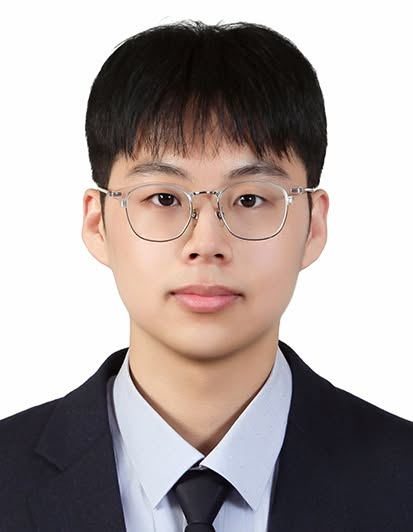
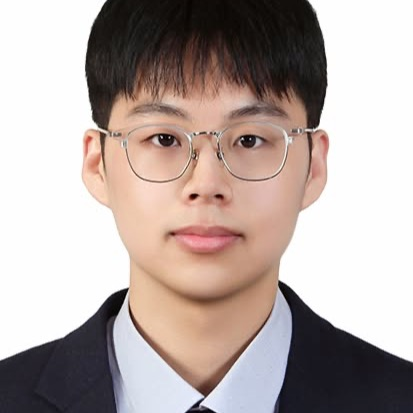
fix(people): adjust Soo-Seong Kim profile rendering

diff --git a/_pages/about_sooseongkim.md b/_pages/about_sooseongkim.md
@@ -1,0 +1,1 @@
+2026 BS in Physics, Incheon National University
